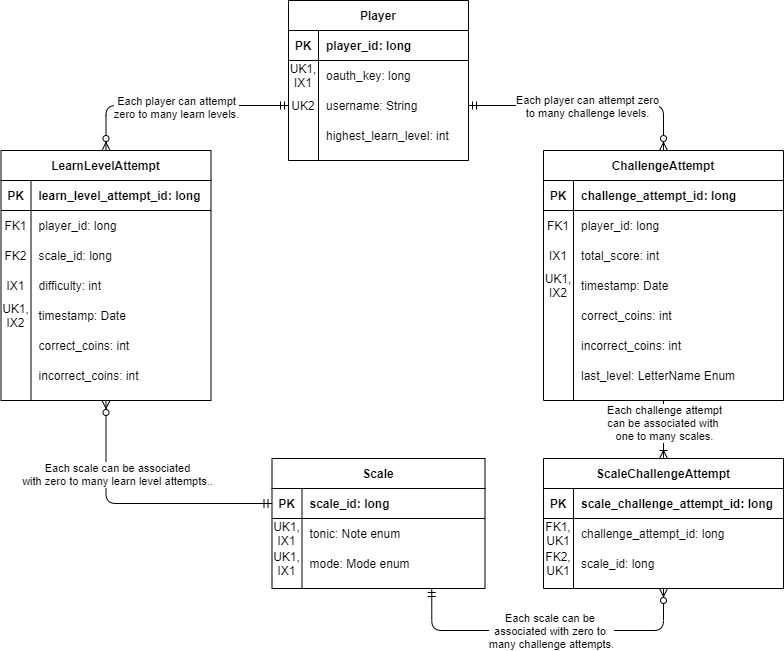
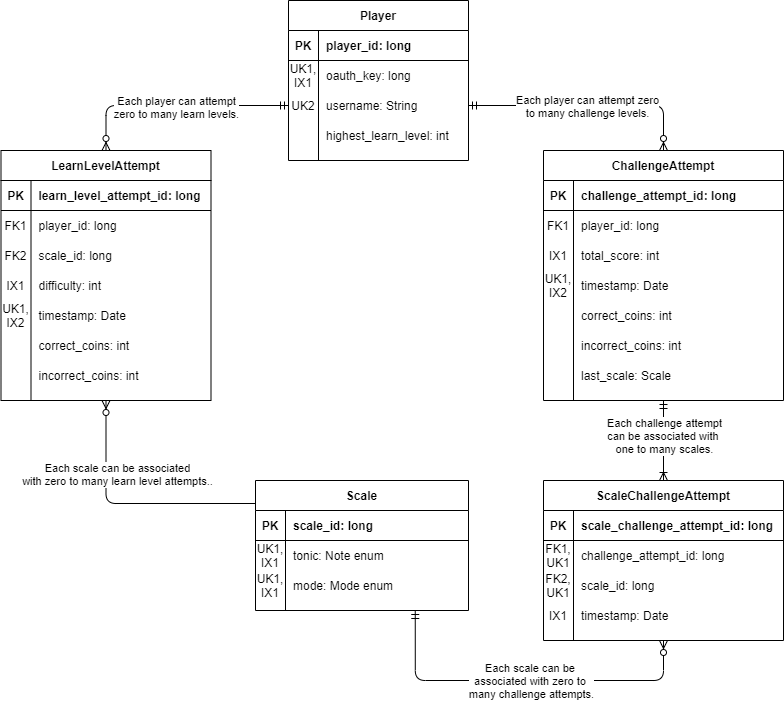
Added new attribute to ScaleChallengeAttempt.

diff --git a/app/src/main/java/edu/cnm/deepdive/scalescroller/model/dao/ScaleChallengeAttemptDao.java b/app/src/main/java/edu/cnm/deepdive/scalescroller/model/dao/ScaleChallengeAttemptDao.java
@@ -24,9 +24,13 @@ public interface ScaleChallengeAttemptDao {
       + "INNER JOIN ScaleChallengeAttempt AS sca ON sca.challenge_attempt_id = ca.challenge_attempt_id "
       + "WHERE sca.scale_id = :scaleId ORDER BY ca.timestamp DESC";
 
-  String SELECT_SCALES_QUERY = "SELECT s.* FROM Scale AS s "
+  String SELECT_SCALES_BY_NAME_QUERY = "SELECT s.* FROM Scale AS s "
       + "INNER JOIN ScaleChallengeAttempt AS sca ON sca.scale_id = s.scale_id "
       + "WHERE sca.challenge_attempt_id = :attemptId ORDER BY s.mode AND s.tonic ASC";
+
+  String SELECT_SCALES_BY_DATE_QUERY = "SELECT s.* FROM Scale AS s "
+      + "INNER JOIN ScaleChallengeAttempt AS sca ON sca.scale_id = s.scale_id "
+      + "WHERE sca.challenge_attempt_id = :attemptId ORDER BY sca.timestamp ASC";
 
   @Insert
   Single<Long> insert(ScaleChallengeAttempt attempt);
@@ -67,7 +71,10 @@ public interface ScaleChallengeAttemptDao {
   @Query(SELECT_CHALLENGE_ATTEMPTS_BY_DATE_QUERY)
   LiveData<List<ChallengeAttempt>> selectChallengeAttemptsByDate(long scaleId);
 
-  @Query(SELECT_SCALES_QUERY)
-  LiveData<List<Scale>> selectScales(long attemptId);
+  @Query(SELECT_SCALES_BY_NAME_QUERY)
+  LiveData<List<Scale>> selectScalesByName(long attemptId);
+
+  @Query(SELECT_SCALES_BY_DATE_QUERY)
+  LiveData<List<Scale>> selectScalesByDate(long attemptId);
 
 }

diff --git a/app/src/main/java/edu/cnm/deepdive/scalescroller/model/entity/ScaleChallengeAttempt.java b/app/src/main/java/edu/cnm/deepdive/scalescroller/model/entity/ScaleChallengeAttempt.java
@@ -1,10 +1,12 @@
 package edu.cnm.deepdive.scalescroller.model.entity;
 
+import androidx.annotation.NonNull;
 import androidx.room.ColumnInfo;
 import androidx.room.Entity;
 import androidx.room.ForeignKey;
 import androidx.room.Index;
 import androidx.room.PrimaryKey;
+import java.util.Date;
 
 @Entity(
     indices = {
@@ -37,6 +39,10 @@ public class ScaleChallengeAttempt {
   @ColumnInfo(name = "scale_id", index = true)
   private long scaleId;
 
+  @NonNull
+  @ColumnInfo(index = true)
+  private Date timestamp = new Date();
+
   public long getId() {
     return id;
   }
@@ -59,5 +65,14 @@ public class ScaleChallengeAttempt {
 
   public void setScaleId(long scaleId) {
     this.scaleId = scaleId;
+  }
+
+  @NonNull
+  public Date getTimestamp() {
+    return timestamp;
+  }
+
+  public void setTimestamp(@NonNull Date timestamp) {
+    this.timestamp = timestamp;
   }
 }

diff --git a/app/src/main/java/edu/cnm/deepdive/scalescroller/service/ScaleChallengeAttemptRepository.java b/app/src/main/java/edu/cnm/deepdive/scalescroller/service/ScaleChallengeAttemptRepository.java
@@ -53,8 +53,12 @@ public class ScaleChallengeAttemptRepository {
     return scaleChallengeAttemptDao.selectChallengeAttemptsByDate(scaleId);
   }
 
-  public LiveData<List<Scale>> getScalesForChallengeAttempt(long attemptId) {
-    return scaleChallengeAttemptDao.selectScales(attemptId);
+  public LiveData<List<Scale>> getScalesForChallengeAttemptByName(long attemptId) {
+    return scaleChallengeAttemptDao.selectScalesByName(attemptId);
+  }
+
+  public LiveData<List<Scale>> getScalesForChallengeAttemptByDate(long attemptId) {
+    return scaleChallengeAttemptDao.selectScalesByDate(attemptId);
   }
 
 }
